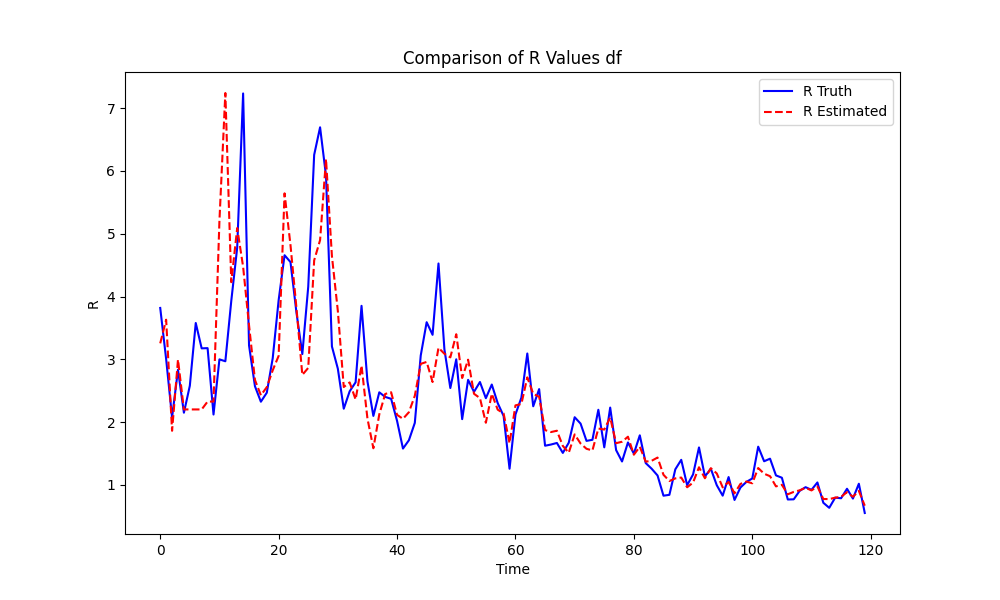
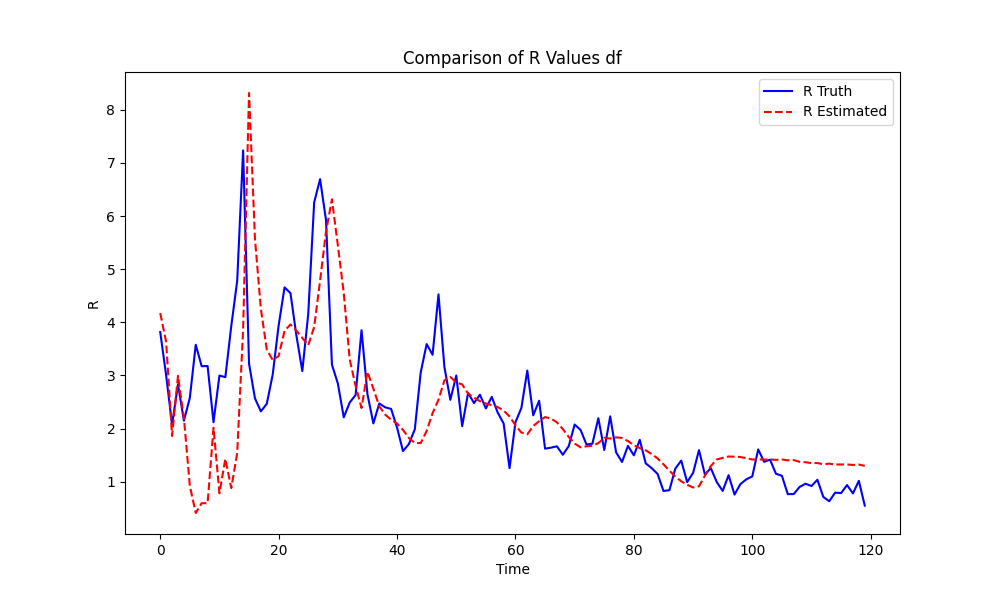
update code

diff --git a/original_model.py b/original_model.py
@@ -48,132 +48,129 @@ def omega_vector(length=25, shape=2.5, scale=3):
     omega = np.array([(gamma.cdf(i, shape, scale=scale) - gamma.cdf(i - 1, shape, scale=scale))
                       / gamma.cdf(length, shape, scale=scale) for i in range(1, length + 1)])
     return omega
+Z = df[['Z1', 'Z2']].values
+I = df['I'].values
 
-def QSOEID(Z, I, NoCov, T, I_0, R_0, bias_corr_const,tau_0):
-    Omega = omega_vector()
-    Lambda = np.full(T, np.nan)
-    Lambda[0] = I_0 * Omega[0]
-    for t in range(1, 25):
-        Lambda[t] = I_0 * Omega[t] + np.dot(I[:t], Omega[t-1::-1])
-    for t in range(25, T):
-        Lambda[t] = np.dot(I[t-25:t], Omega[::-1])
+#def QSOEID(Z, I, NoCov, T, I_0, R_0, bias_corr_const,tau_0):
+Omega = omega_vector()
+Lambda = np.full(T, np.nan)
+Lambda[0] = I_0 * Omega[0]
+#range 1-24
+for t in range(1, 25):
+    Lambda[t] = I_0 * Omega[t] + np.dot(I[:t], Omega[t-1::-1])
+#range 25-T-1
+for t in range(25, T):
+    Lambda[t] = np.dot(I[t-25:t], Omega[::-1])
 
-    EstR = np.full(T, np.nan)
-    EstR[0] = max(1, I[0] / (I_0 * Omega[0]))
-    for t in range(1, tau_0):
-        EstR[t] = max(1, I[t] / (I_0 * Omega[t] + np.dot(I[:t], Omega[t-1::-1])))
+EstR = np.full(T, np.nan)
+EstR[0] = max(1, I[0] / (I_0 * Omega[0]))
+for t in range(1, tau_0):
+    EstR[t] = max(1, I[t] / (I_0 * Omega[t] + np.dot(I[:t], Omega[t-1::-1])))
+#print(EstR[:t])
 
-    # Calculating barZ, WTilde, YTilde, BetaTilde, ZYTilde, EstPhi, and EstBeta
+# Calculating barZ, WTilde, YTilde, BetaTilde, ZYTilde, EstPhi, and EstBeta
+barZ=Z
+for t in range (1,T):
     barZ = np.cumsum(Z, axis=0) / np.arange(1, T + 1)[:, None]
-    # WTilde calculation
-    WTilde = [np.zeros((NoCov, NoCov))]  # WTilde as a list of matrices
-    for t in range(1, tau_0):
-        WTilde.append(np.zeros((NoCov, NoCov)))
-        for i in range(t):
-            WTilde[t] += np.outer(Z[i,] - barZ[t,], Z[i,] - barZ[t,])
-        WTilde[t] = np.linalg.inv(WTilde[t] + 0.1 * np.eye(NoCov))
+# WTilde calculation
+WTilde = [np.zeros((NoCov, NoCov))]  # WTilde as a list of matrices
+for t in range(1, tau_0):
+    WTilde.append(np.zeros((NoCov, NoCov)))
+    for i in range(t):
+        WTilde[t] += np.outer(Z[i,] - barZ[t,], Z[i,] - barZ[t,])
+    WTilde[t] = np.linalg.inv(WTilde[t] + 0.1 * np.eye(NoCov))
 
-    for t in range(tau_0, T):
-        WTilde.append(np.zeros((NoCov, NoCov)))
-        for i in range(t):
-            WTilde[t] += np.outer(Z[i,] - barZ[t,], Z[i,] - barZ[t,])
-        WTilde[t] = np.linalg.inv(WTilde[t])
+for t in range(2, T):
+    WTilde.append(np.zeros((NoCov, NoCov)))
+    for i in range(t):
+        WTilde[t] += np.outer(Z[i,] - barZ[t,], Z[i,] - barZ[t,])
+    WTilde[t] = np.linalg.inv(WTilde[t])
+
+YTilde = np.full((1, T), np.nan)
+for t in range(tau_0):
+    YTilde[0, t] = np.log(EstR[t])
+
+BetaTilde = np.full((T, NoCov), np.nan)
+ZYTilde = np.full((T, NoCov), np.nan)
+EstPhi = np.full((T, 2), np.nan)
+EstBeta = np.full((T, NoCov), np.nan)
+### Intermediate variables, ZYHat
+ZYHat=ZYTilde
+
+# Define the profile likelihood function
+def ell( phi, k ,bias_corr_const):
+    global    R_0, tau_0
+
+    # First part of the calculation
+    ZYTilde[k - 1, :] = (np.log(EstR[0]) - phi[1] * np.log(R_0) - phi[0]) * (Z[0, :] - barZ[k - 1, :])
+    print(ZYTilde[k - 1, :])
+    #EstR[0] = np.exp(phi[0] + phi[1] * np.log(R_0))
+
+    # Loop for updating ZYTilde
+    for i in range(1, k-1):
+        ZYTilde[k - 1, :] += (np.log(EstR[i]) - phi[1] * np.log(EstR[i - 1]) - phi[0]) * (Z[i, :] - barZ[k - 1, :])
+        print(ZYTilde[k - 1, :])
+
+    # Updating BetaTilde
+    BetaTilde[k, :] = ZYTilde[k - 1, :] @ WTilde[k - 1]
+    print(BetaTilde[k, :])
     
-    YTilde = np.full((1, T), np.nan)
-    for t in range(tau_0):
-        YTilde[0, t] = np.log(EstR[t])
+    # Loop for updating YTilde
+    for i in range(tau_0, k):
+        YTilde[0, i] = phi[0] + phi[1] * np.log(EstR[i - 1]) + Z[i, :].T @ BetaTilde[k, :]
+        print(YTilde[0, i])
 
-    BetaTilde = np.full((T, NoCov), np.nan)
-    ZYTilde = np.full((T, NoCov), np.nan)
-    EstPhi = np.full((T, 2), np.nan)
-    EstBeta = np.full((T, NoCov), np.nan)
-    ### Intermediate variables, ZYHat
-    ZYHat=ZYTilde
+    # Calculating the result
+    result = 0
+    for j in range(tau_0, k):
+        result += I[j] * YTilde[0,j] - bias_corr_const * np.exp(YTilde[0,j]) * Lambda[j]
 
-    # Define the profile likelihood function
-    def ell( phi, k ,bias_corr_const):
-        global    R_0, tau_0
+    return -result
 
-        # First part of the calculation
-        ZYTilde[k - 1, :] = (np.log(EstR[0]) - phi[1] * np.log(R_0) - phi[0]) * (Z[0, :] - barZ[k - 1, :])
-        EstR[0] = np.exp(phi[0] + phi[1] * np.log(R_0))
+#def ell2(phi, k):
+    """ ZYTilde[k - 1, :] = (np.log(EstR[0]) - phi[1] * np.log(R_0) - phi[0]) * (Z[0, :] - barZ[k - 1, :])
+    EstR[0] = np.exp(phi[0] + phi[1] * np.log(R_0))
+    for i in range(1, k - 1):
+        ZYTilde[k - 1, :] += (np.log(EstR[i]) - phi[1] * np.log(EstR[i - 1]) - phi[0]) * (Z[i, :] - barZ[k - 1, :])
+    BetaTilde[k - 1, :] = ZYTilde[k - 1, :] @ WTilde[k - 1]
+    for i in range(tau_0, k):
+        YTilde[i] = phi[0] + phi[1] * np.log(EstR[i - 1]) + Z[i, :] @ BetaTilde[k - 1, :]
+    result = 0
+    for j in range(tau_0, k):
+        result += I[j] * YTilde[j] - bias_corr_const * (np.exp(YTilde[j])) * Lambda[j]
+    return -result """
 
-        # Loop for updating ZYTilde
-        for i in range(1, k - 1):
-            ZYTilde[k - 1, :] += (np.log(EstR[i]) - phi[1] * np.log(EstR[i - 1]) - phi[0]) * (Z[i, :] - barZ[k - 1, :])
-
-        # Updating BetaTilde
-        BetaTilde[k, :] = ZYTilde[k - 1, :] @ WTilde[k - 1]
-       
-        # Loop for updating YTilde
-        for i in range(tau_0, k):
-            YTilde[0, i] = phi[0] + phi[1] * np.log(EstR[i - 1]) + Z[i, :].T @ BetaTilde[k, :]
-
-        # Calculating the result
-        result = 0
-        for j in range(tau_0, k):
-            result += I[j] * YTilde[0,j] - bias_corr_const * np.exp(YTilde[0,j]) * Lambda[j]
-
-        return -result
-    
-    # def scaled_ell(scaled_params, *args):
-    #     # Scale back the parameters before passing them to the original objective function
-    #     original_params = scaled_params / np.array([100, 2])
-    #     return ell(original_params, *args)
-
-    # # Initial guesses and bounds
-    # initial_guesses = np.array([0.05, 0.7])
-    # bounds =[(-5, 5), (0.3, 0.95)]
-
-    # # Apply scaling
-    # scaled_initial_guesses = initial_guesses * np.array([100, 2])
-    # scaled_bounds = [(b[0] * scale, b[1] * scale) for b, scale in zip(bounds, [100, 2])]
-
-    # Minimize over the minus profile log-likelihood
-    for t in range(tau_0 + 1, T):
-        #Minimize the minus profile log-likelihood
-        #result = minimize(lambda phi: ell(phi, t, EstR), [0.05, 0.7], bounds=[(-5, 5), (0.3, 0.95)])
-        try:
-            result = minimize(ell, np.array([0.05, 0.7]), args=(t,),method='nelder-mead', bounds=[(-5, 5), (0.3, 0.95)], options={'maxiter': 1000}
-)
-
-            if result.success:
-                EstPhi[t, :] = result.x
-                # Update logic
-            else:
-                print(f"Minimization failed at t={t} with message: {result.message}")
-        except Exception as e:
-            print(f"Exception at t={t}: {e}")
-        # try:
-        #     result = minimize(scaled_ell, scaled_initial_guesses, args=(t, ), method='TNC', bounds=scaled_bounds)
-
-        #     if result.success:
-        #         # Revert scaling in the result
-        #         EstPhi[t, :] = result.x / np.array([100, 2])
-        #     else:
-        #         print(f"Minimization failed at t={t} with message: {result.message}")
-        # except Exception as e:
-        #     print(f"Exception at t={t}: {e}")
-
+x=ell([0.5, 0.7], 5, bias_corr_const)
+print(x)
+#print(x)
+# Minimize over the minus profile log-likelihood
+for t in range(tau_0, T):
+    res = minimize(ell, x0=[0.05, 0.7], args=(t, bias_corr_const),
+                    bounds=[(-5, 5), ( 0.3,0.95)],method='L-BFGS-B')
+    EstPhi[t , :] = res.x
+    #print(EstPhi[t, :])
         # Update ZYHat
-        ZYHat[t - 1, :] = (np.log(EstR[0]) - EstPhi[t, 1] * np.log(R_0) - EstPhi[t, 0]) * (Z[0, :] - barZ[t - 1, :])
-        for i in range(1, t - 1):
-            ZYHat[t - 1, :] += (np.log(EstR[i]) - EstPhi[t, 1] * np.log(EstR[i - 1]) - EstPhi[t, 0]) * (Z[i, :] - barZ[t - 1, :])
+    #x=ell([0.5, 0.7], 15, bias_corr_const)
 
-        # Update EstBeta
-        EstBeta[t, :] = ZYHat[t - 1, :] @ WTilde[t - 1]
+    #print(x)
+    ZYHat[t - 1, :] = (np.log(EstR[0]) - EstPhi[t, 1] * np.log(R_0) - EstPhi[t, 0]) * (Z[0, :] - barZ[t - 1, :])
+    for i in range(1, t - 1):
+        ZYHat[t - 2, :] += (np.log(EstR[i]) - EstPhi[t-1, 1] * np.log(EstR[i - 1]) - EstPhi[t-1, 0]) * (Z[i, :] - barZ[t - 2, :])
 
-        # Update EstR
-        EstR[t] = np.exp(EstPhi[t, 0] + EstPhi[t, 1] * np.log(EstR[ t - 1]) + Z[t, :].T @ EstBeta[t, :])
-        print(EstR[:t])
-        # Check condition and update if necessary
-        if  t > 0 and greater_or_na(abs(EstR[t] - EstR[t - 1]), 5, 'L182?'):
-            EstPhi[t, :] = EstPhi[t - 1, :]
-            EstBeta[t, :] = EstBeta[t - 1, :]
-            EstR[t] = EstR[ t - 1]
+    # Update EstBeta
+    EstBeta[t, :] = ZYHat[t - 1, :] @ WTilde[t - 1]
+
+    # Update EstR
+    EstR[t] = np.exp(EstPhi[t, 0] + EstPhi[t, 1] * np.log(EstR[ t - 1]) + Z[t, :].T @ EstBeta[t, :])
     #print(EstR[:t])
+    # Check condition and update if necessary
+    if  t > 0 and greater_or_na(abs(EstR[t] - EstR[t - 1]), 5, 'L182?'):
+        EstPhi[t, :] = EstPhi[t - 1, :]
+        EstBeta[t, :] = EstBeta[t - 1, :]
+        EstR[t] = EstR[ t - 1]
+print(EstR[:t])
     # Return results (modify as necessary)
-    return EstPhi, EstBeta, EstR
+    #return EstPhi, EstBeta, EstR
 
 def perform_estimation_and_plot(df, file_suffix):
     Z = df[['Z1', 'Z2']].values

diff --git a/prompt engineer/chatgpt.py b/prompt engineer/chatgpt.py
@@ -1,0 +1,45 @@
+#import openai
+import os
+import openai
+
+#set api key as environment variable
+openai.api_key = os.getenv("OPENAI_API_KEY")
+
+#check if the api_key is loaded succefssfully
+#print(f"Secret key: {openai.api_key}")
+
+#openai.base_url = "https://..."
+openai.default_headers = {"x-foo": "true"}
+# Define a function to call the OpenAI GPT-4 API
+def ask_gpt(prompt, temperature):
+     completion = openai.chat.completions.create(
+            model="gpt-4",
+            messages=[
+                {
+                    "role": "user",
+                    "content": prompt
+                },
+            ],
+            temperature=temperature,  # Setting the temperature
+        )
+     return completion.choices[0].message['content']
+
+text = f"""
+You should express what you want a model to do by \ 
+providing instructions that are as clear and \ 
+specific as you can possibly make them. \ 
+This will guide the model towards the desired output, \ 
+and reduce the chances of receiving irrelevant \ 
+or incorrect responses. Don't confuse writing a \ 
+clear prompt with writing a short prompt. \ 
+In many cases, longer prompts provide more clarity \ 
+and context for the model, which can lead to \ 
+more detailed and relevant outputs.
+"""
+prompt = f"""
+Summarize the text delimited by triple backticks \ 
+into a single sentence.
+```{text}```
+"""
+response = ask_gpt(prompt,temperature=0.7)
+print(response)
